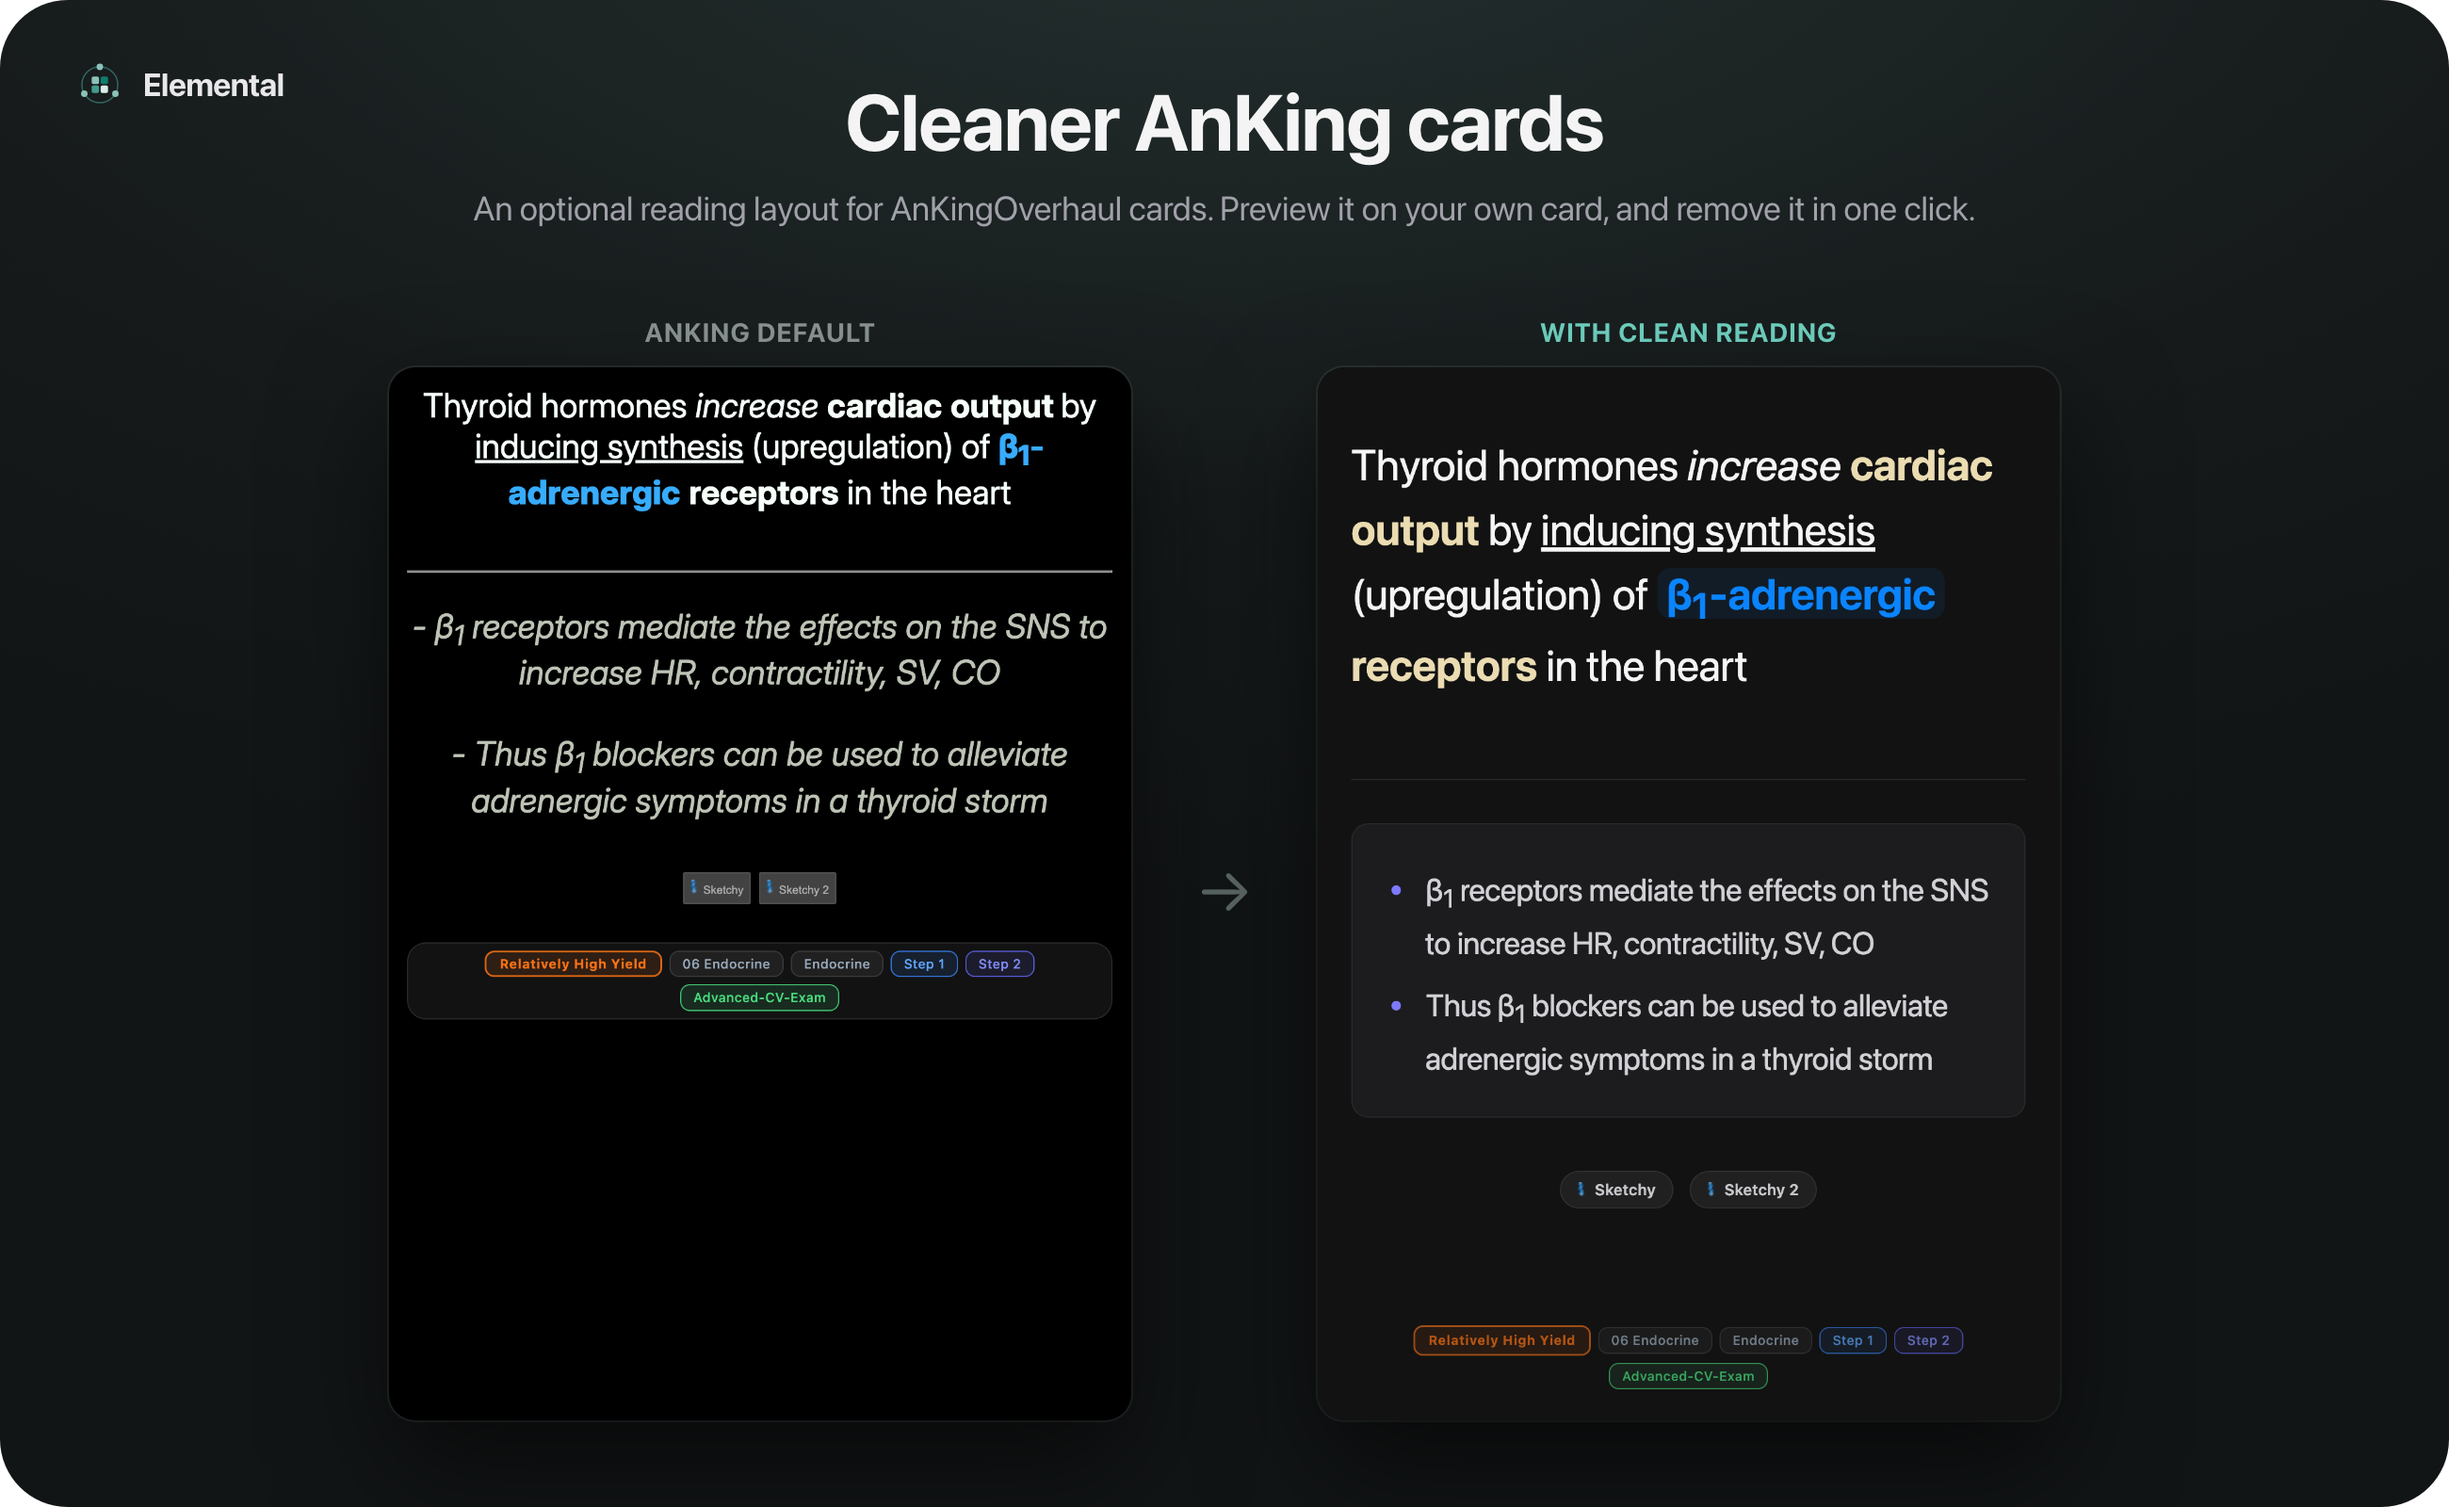
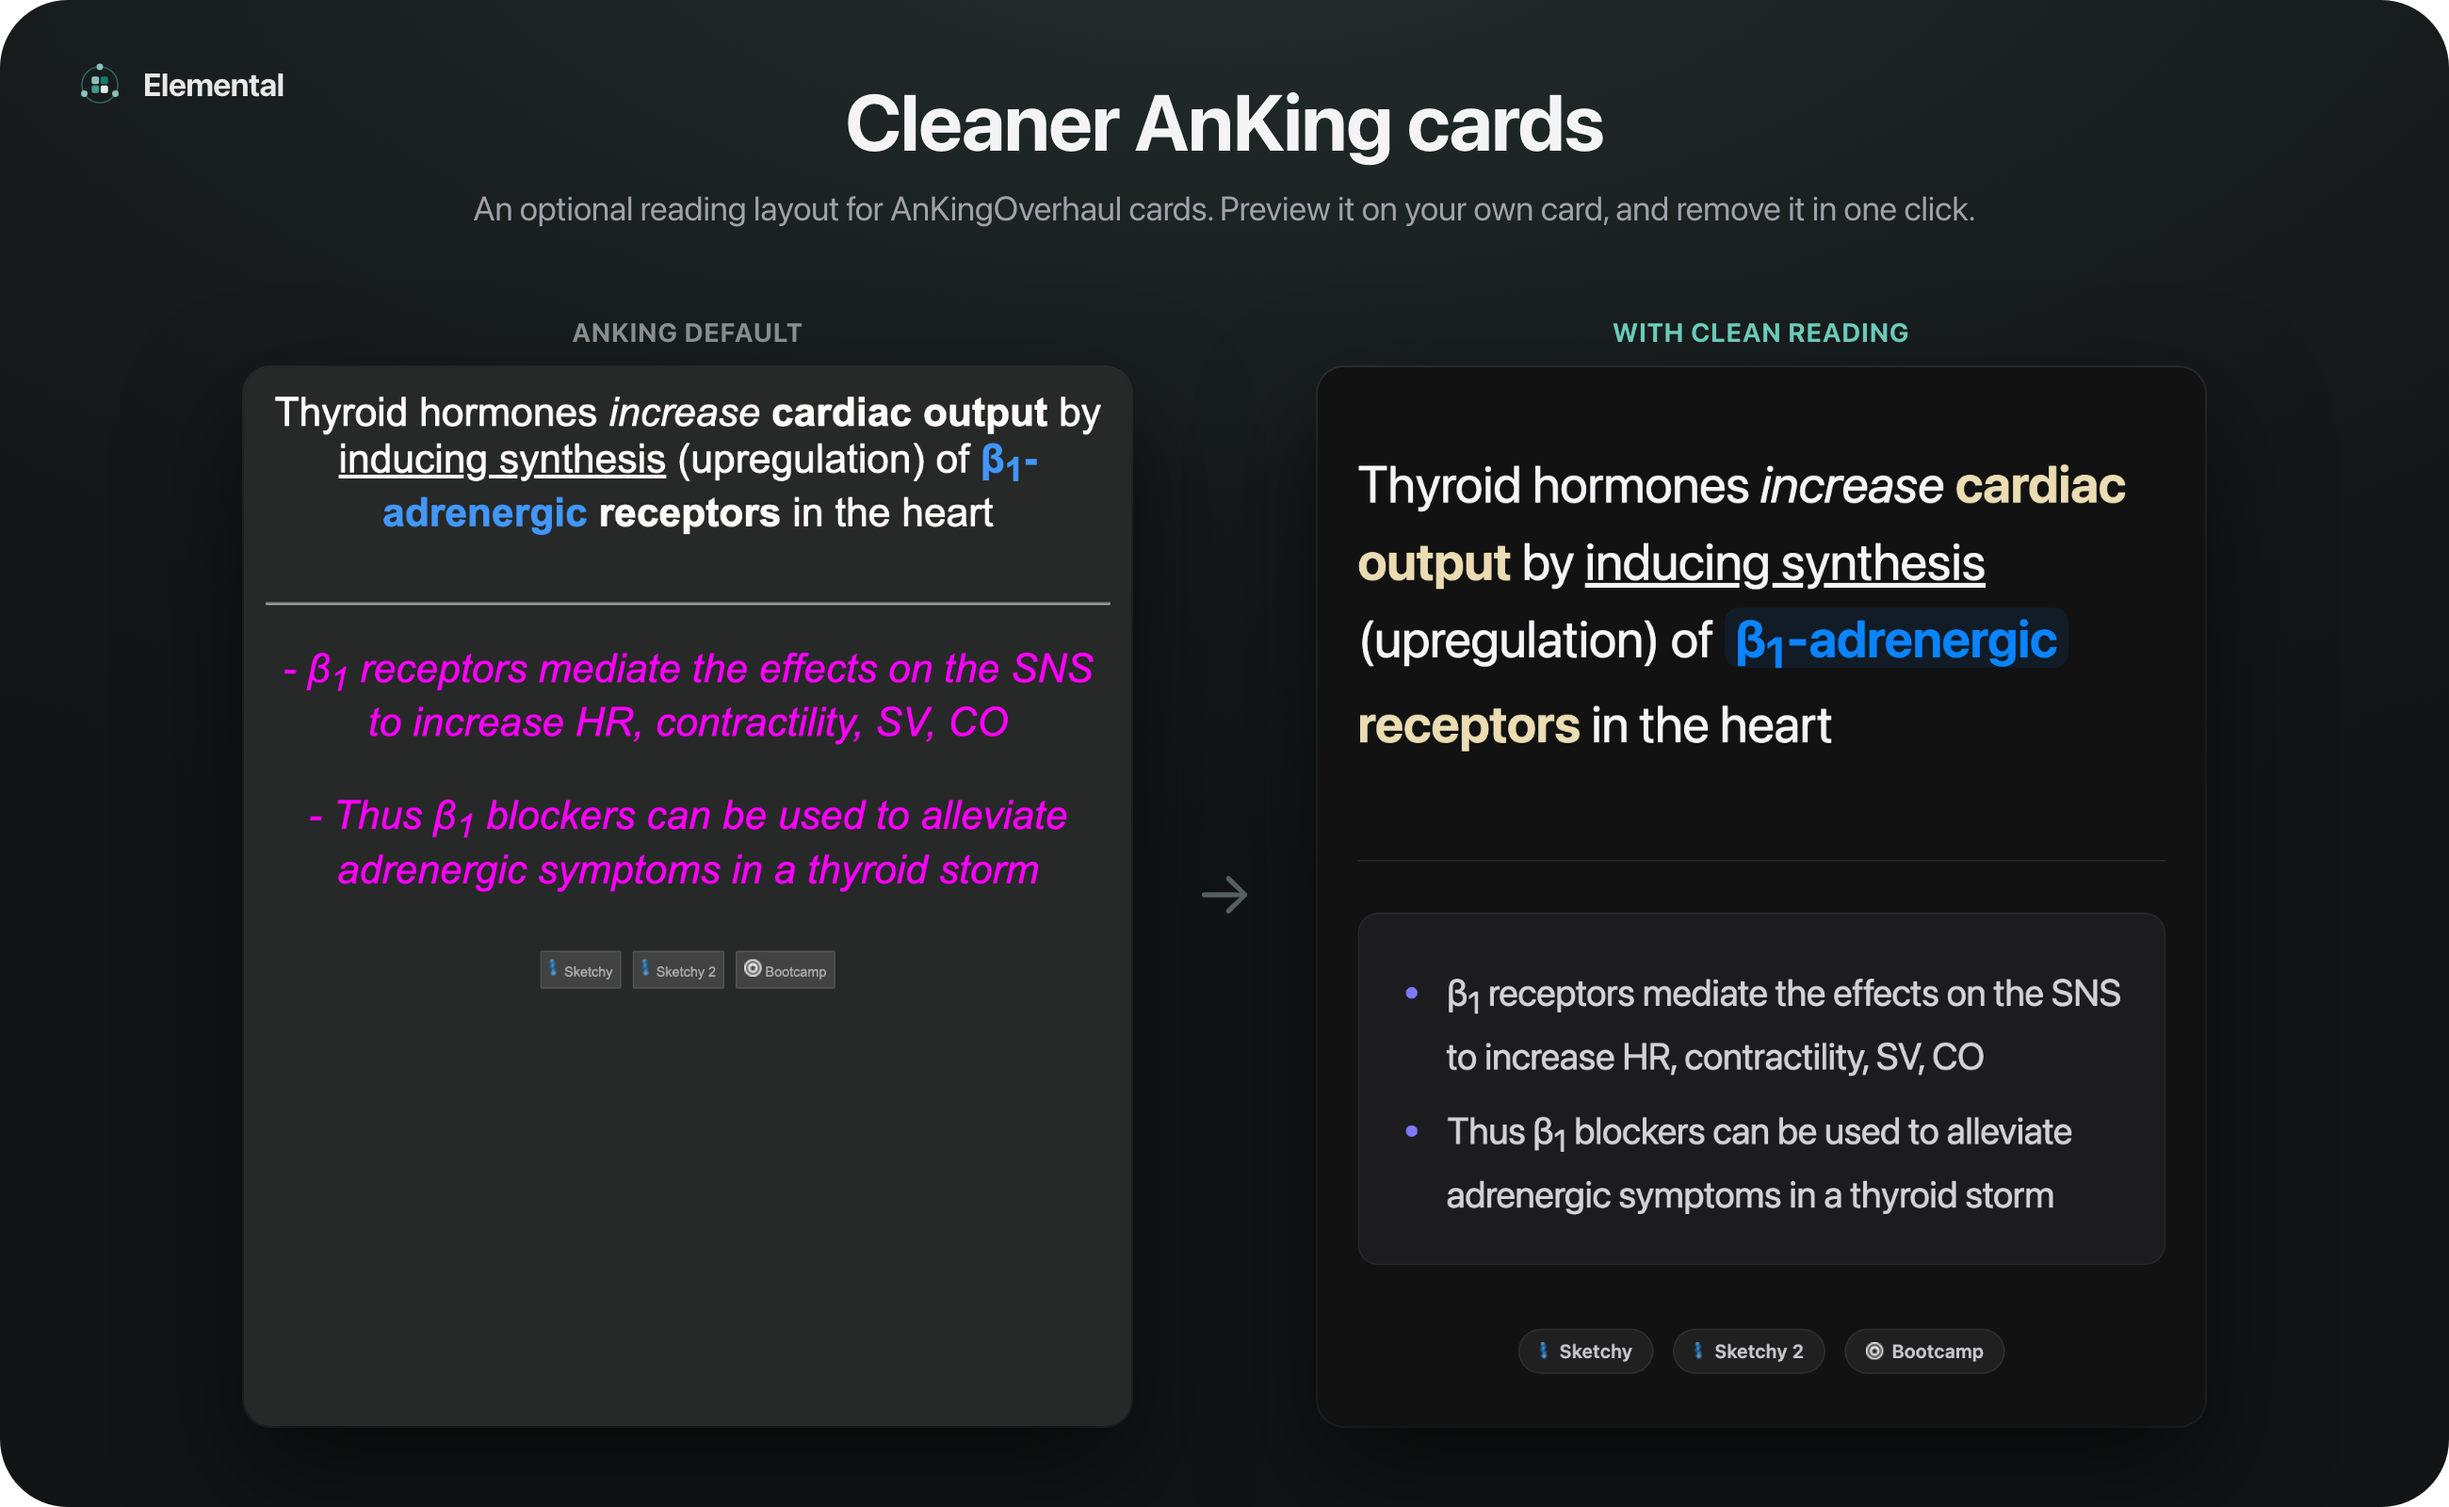
AnKing poster: compare against the real stock AnKingOverhaul
The "before" card now uses the stock template shipped by the AnKing Note
Types add-on (grey page, magenta Extra, no tags) instead of a stand-in.

diff --git a/promo/source/make_posters.py b/promo/source/make_posters.py
@@ -297,7 +297,7 @@ pages["06-card-browser"] = (1300, 800, f"""<style>{BASE}
 <div class="keys"><span>Colored clozes</span><span>Tinted card states</span><span>Symbols for suspended, buried and marked</span><span>Your own colors</span></div></div>""")
 
 # 18: AnKing card before / after (Clean Reading Theme + Beautify Text Dashes), the add-on's own render
-AKS = 0.635
+AKS = 0.76
 pages["18-anking-cards"] = (1300, 800, f"""<style>{BASE}
 .mark{{position:absolute;left:40px;top:32px;font-size:17px;color:#e8e8ea}}
 .head{{text-align:center;padding-top:40px}}h1{{font-size:42px;font-weight:700;letter-spacing:-.5px;margin:0}}
@@ -309,9 +309,9 @@ pages["18-anking-cards"] = (1300, 800, f"""<style>{BASE}
 <div class="mark">{logo(26)}Elemental</div>
 <div class="head"><h1>Cleaner AnKing cards</h1><div class="sub">An optional reading layout for AnKingOverhaul cards. Preview it on your own card, and remove it in one click.</div></div>
 <div class="st">
-<div class="col"><div class="lbl">AnKing default</div>{png("anking_before_crop.png", 620, 880, AKS, "background-color:#000")}</div>
+<div class="col"><div class="lbl">AnKing default</div>{png("anking_before_crop.png", 620, 740, AKS)}</div>
 <div class="arrow">→</div>
-<div class="col"><div class="lbl on">With Clean Reading</div>{png("anking_after_crop.png", 620, 880, AKS)}</div>
+<div class="col"><div class="lbl on">With Clean Reading</div>{png("anking_after_crop.png", 620, 740, AKS)}</div>
 </div>""")
 
 os.makedirs(os.path.join(HERE, "html"), exist_ok=True)

diff --git a/promo/source/anking_cap.py b/promo/source/anking_cap.py
@@ -11,16 +11,14 @@ note = AK.sample_note(col, nt) if not os.environ.get("NID") else col.get_note(in
 print("note", note.id, AK._field(note, "Text", 0)[:120].replace("\n", " "), flush=True)
 media = "file://" + os.path.expanduser("~/Library/Application Support/Anki2/jshen100/collection.media") + "/"
 import copy
-plain = copy.deepcopy(AK.removed(nt, list(AK.ORDER)))
-parts = AK._original_parts(plain)
-print("own parts found:", sorted(parts), flush=True)
-for name, text in parts.items():
-    if name.endswith(".css"):
-        plain["css"] = plain["css"].replace(text, "")
-    else:
-        side = "qfmt" if "_front" in name else "afmt"
-        for t in plain["tmpls"]:
-            t[side] = t[side].replace(text, "")
+# the real stock AnKingOverhaul, as shipped by the AnKing Note Types add-on
+STOCK = os.path.expanduser("~/Library/Application Support/Anki2/addons21/952691989/note_types/AnKingOverhaul")
+plain = copy.deepcopy(nt)
+plain["css"] = open(os.path.join(STOCK, "Styling.css")).read()
+for t in plain["tmpls"]:
+    t["qfmt"] = open(os.path.join(STOCK, "Front Template.html")).read()
+    t["afmt"] = open(os.path.join(STOCK, "Back Template.html")).read()
+print("stock status:", {k: AK.status(plain, k) for k in AK.ORDER}, flush=True)
 after = AK.applied(plain, list(AK.ORDER))
 for tag, use in (("before", plain), ("after", after)):
     html, css = AK.render(col, note, use, True)
